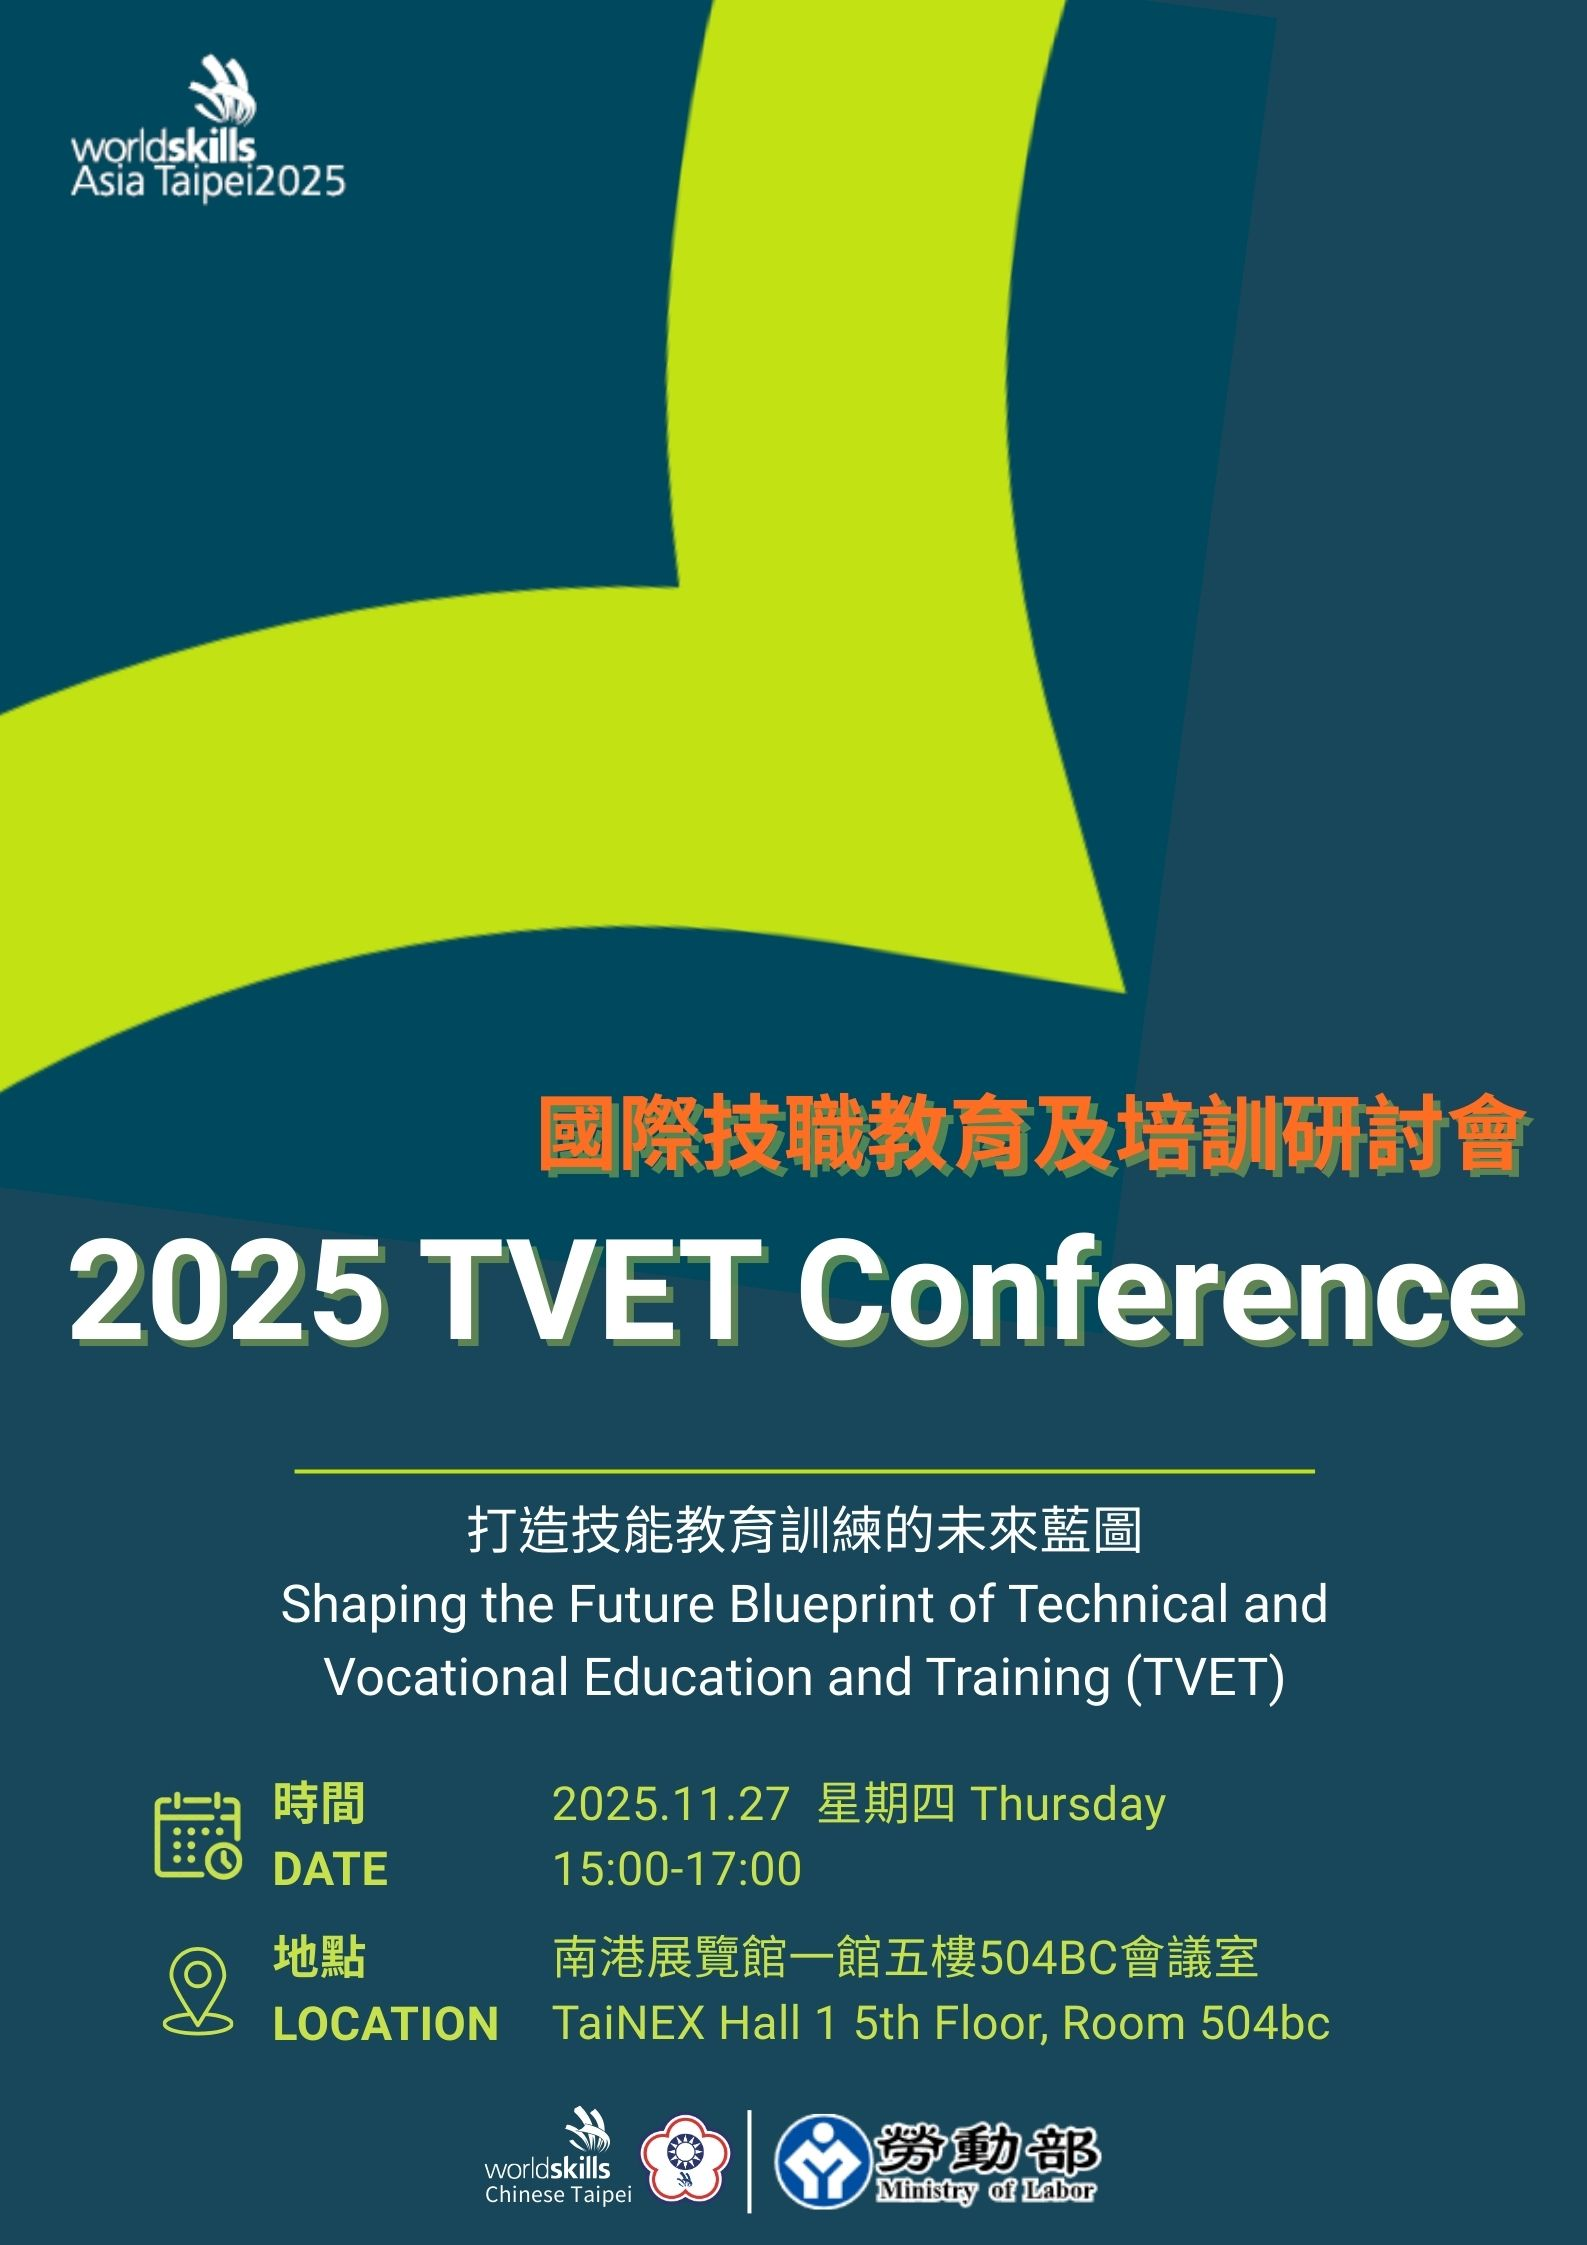
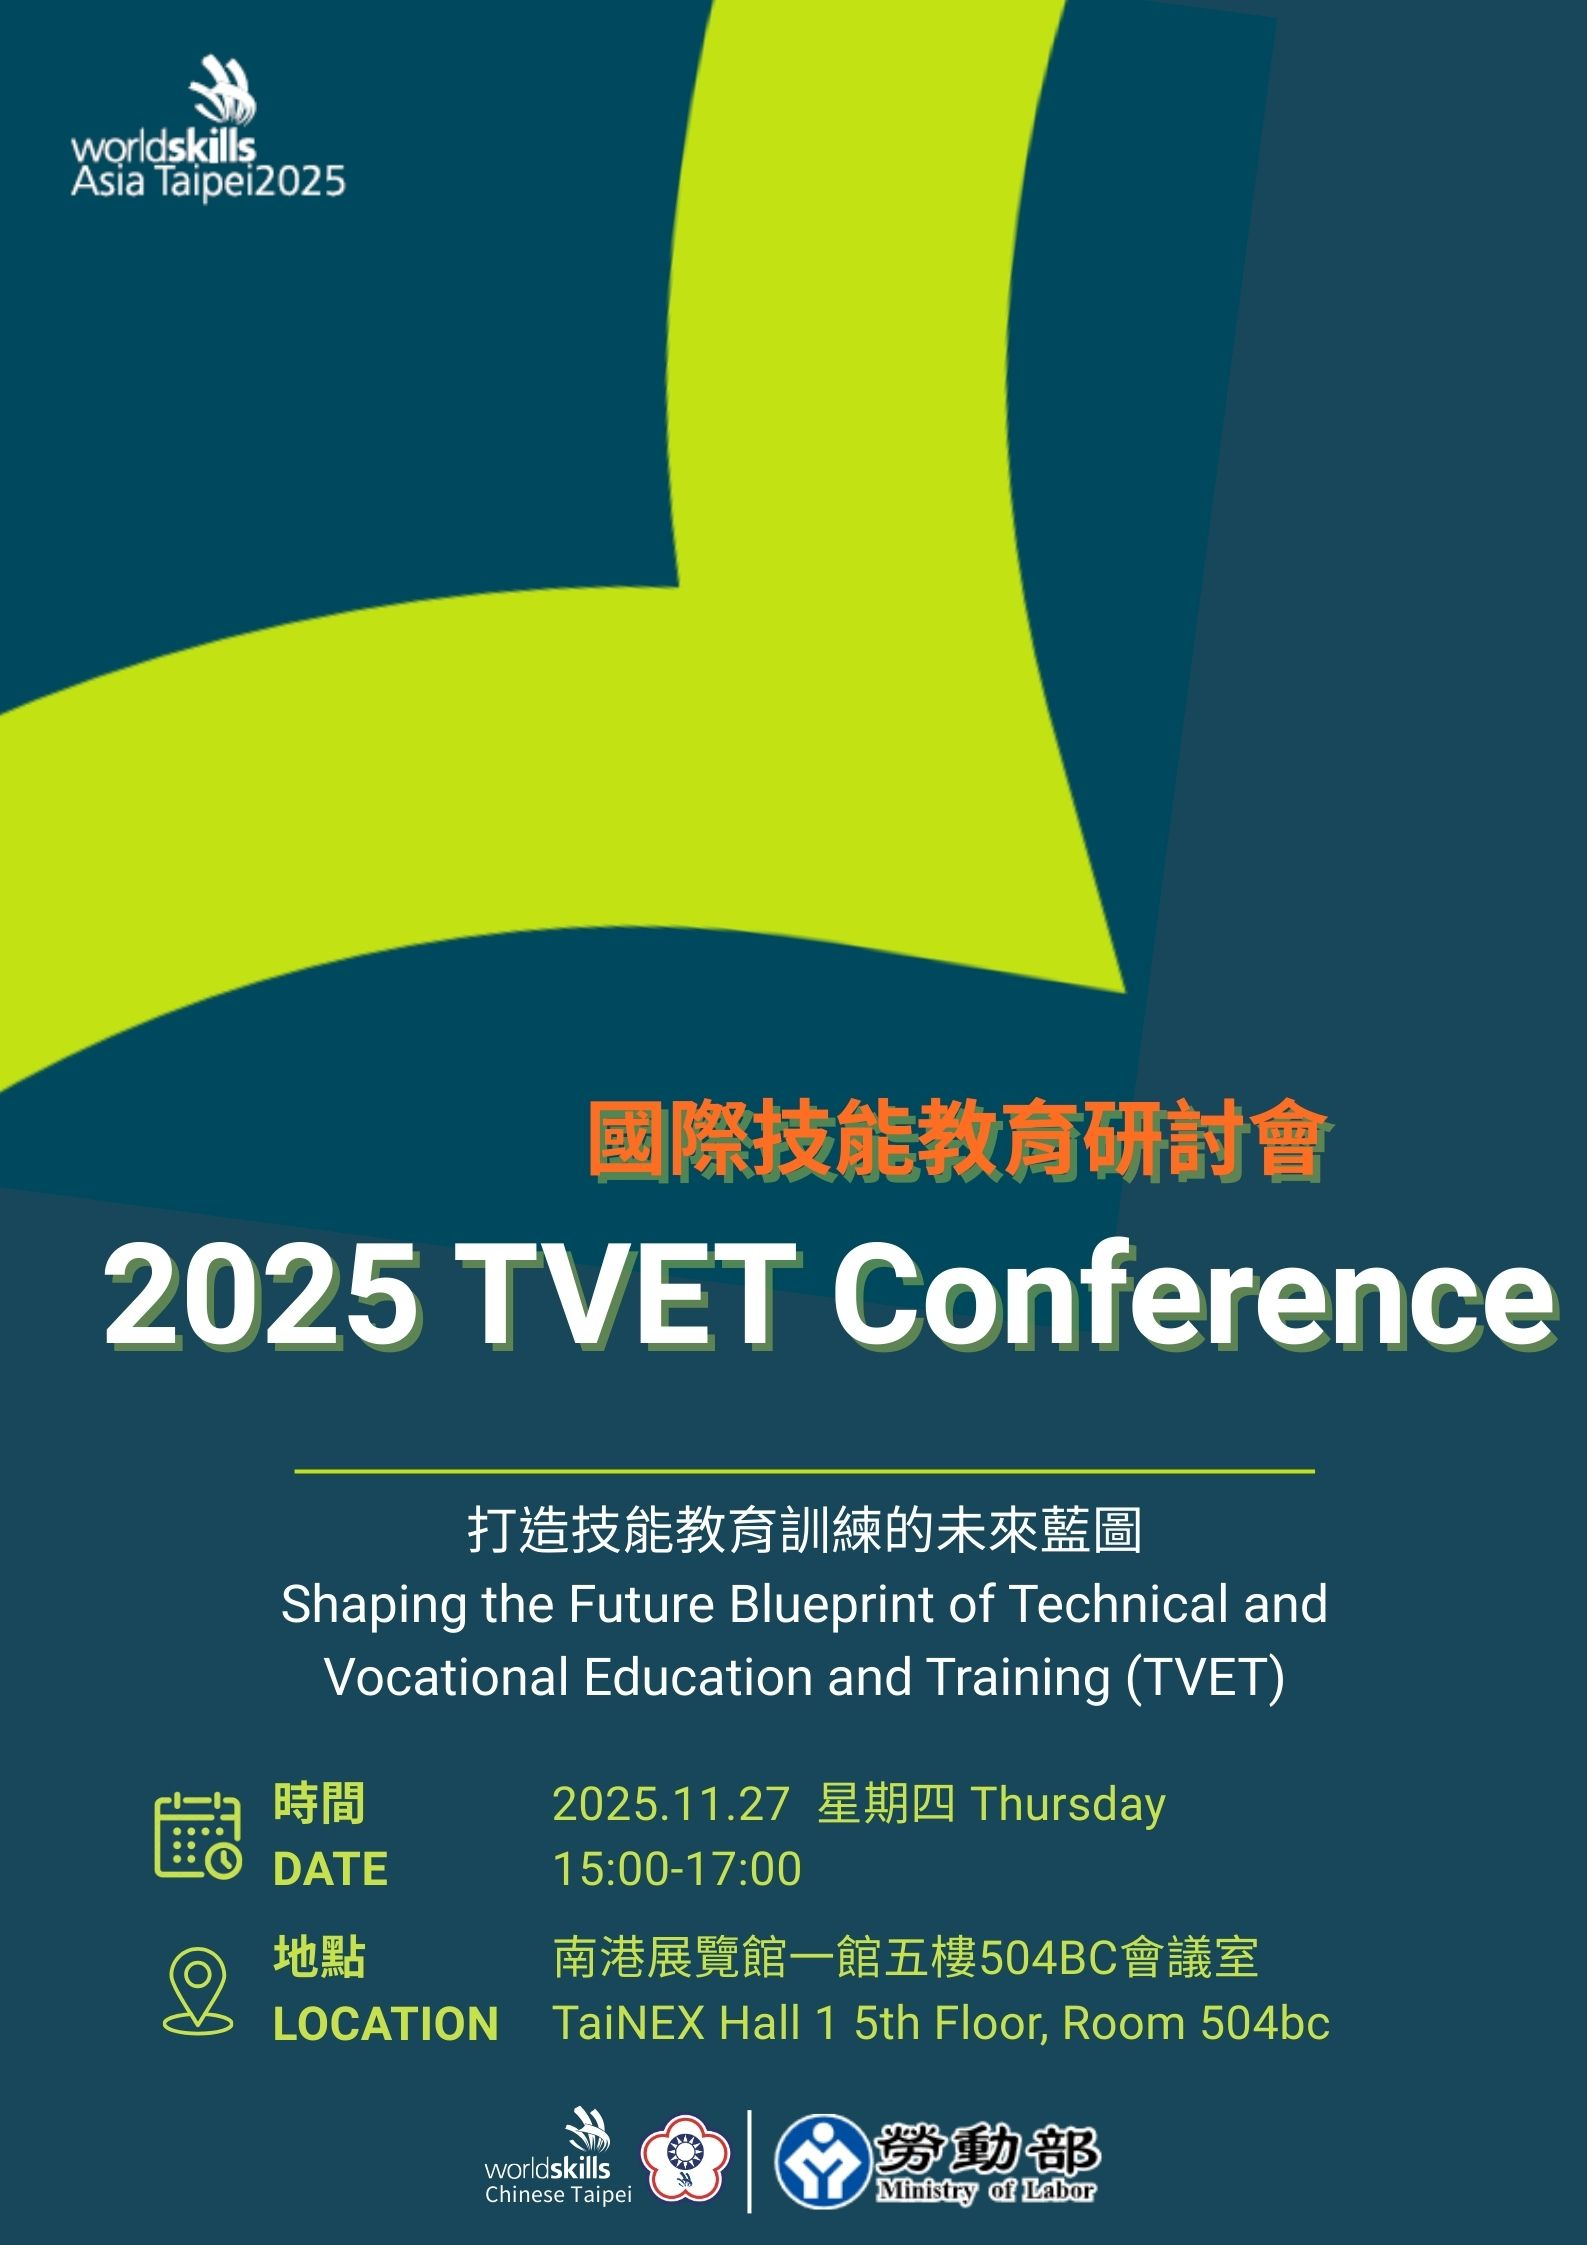
upd: update forum sub-page

Changed region(s): [[0.0309, 0.4677, 0.988, 0.6236]]

diff --git a/src/i18n/tw.ts b/src/i18n/tw.ts
@@ -382,12 +382,12 @@ export default {
     visa_arrival_TSA_link: 'https://www.tsa.gov.tw/layout?id=421f4be9-cb97-4993-a181-520cf59de332',
     visa_attachment_title: '簽證資訊檔案',
     visa_attachment_link: '下載',
-    forum_title: '2025國際技職教育及培訓研討會',
+    forum_title: '2025國際技能教育研討會',
     forum_desc: `<p>誠摯邀請各界先進踴躍參與</p><br>
     <p>為促進職業技術教育和訓練之發展與國際交流，誠摯邀請您參與即將於2025年11月27日（星期四）下午13:30至17:00在臺北南港展覽館一館舉行的「2025國際技職教育及培訓研討會」！</p>
     <p>本次「2025國際技職教育及培訓研討會」特別邀請重量級講者：亞太經合會（APEC）人力資源發展工作小組（HRDWG）美國籍總主席 Zhao Li，分享國際職業訓練現況趨勢及產業發展。同時，我們邀請國內專家學者一同進行交流對談。</p>
     `,
-    forum_desc_aria_label: '2025國際技職教育及培訓研討會',
+    forum_desc_aria_label: '2025國際技能教育研討會',
     forum_conference_capacity: '參加者名額',
     forum_conference_capacity_value:
       '正取100位，候補20位 (依報名先後順序錄取，額滿將提前截止報名。)',

diff --git a/src/components/GetInvolvedForum.vue b/src/components/GetInvolvedForum.vue
@@ -38,8 +38,8 @@ import BaseTitle from '@/components/BaseTitle.vue'
 import { useI18n } from 'vue-i18n'
 const { t, locale } = useI18n()
 
-// •中文版面：報名連結: https://forms.gle/GJ5Ty6jZiwFpZVHMA
-// •英文版面： Registration Link:
+// 中文版面：報名連結: https://forms.gle/GJ5Ty6jZiwFpZVHMA
+// •英文版面： Registration Link: https://forms.gle/GJ5Ty6jZiwFpZVHMA
 
 const registrationLink = computed(() => {
   return locale.value === 'en'
